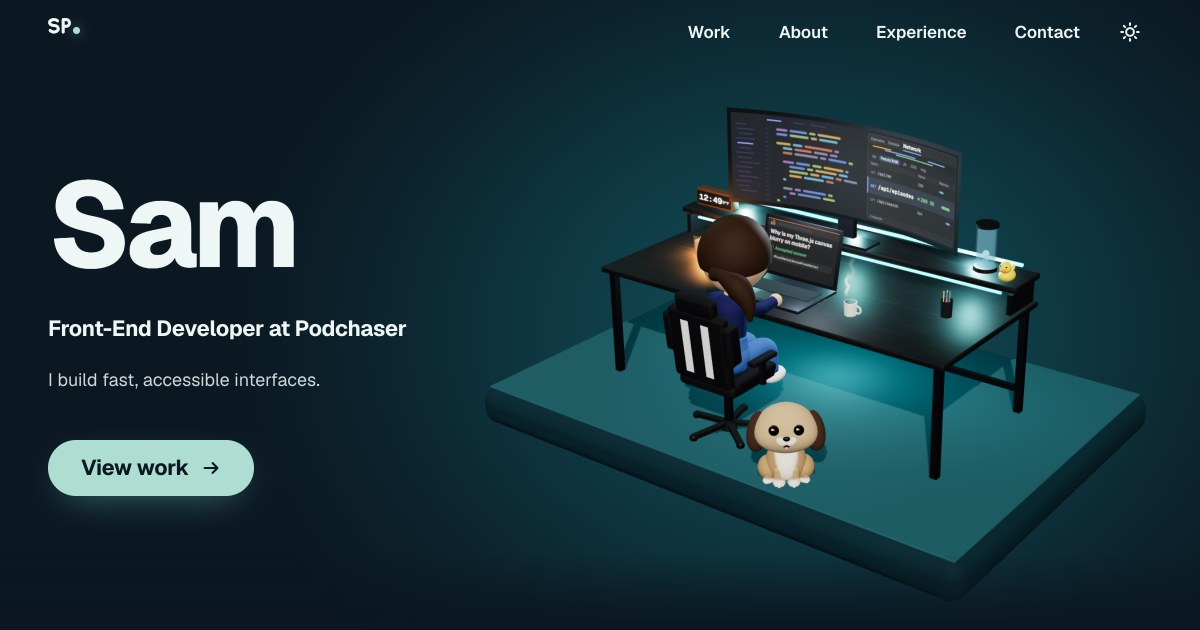
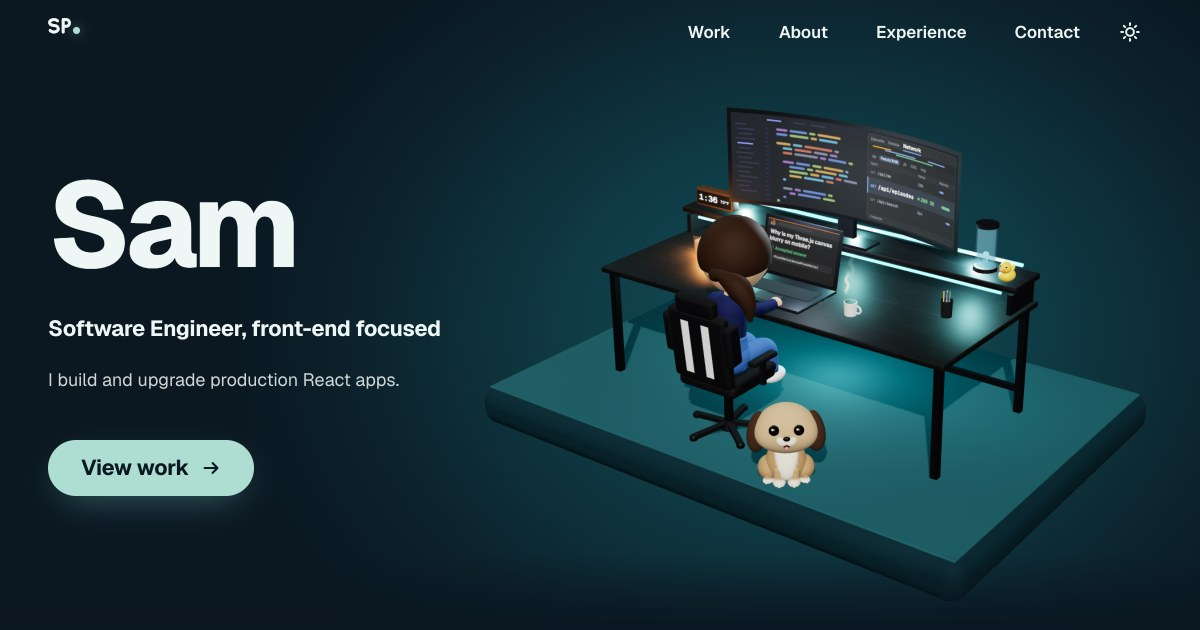
Copy from the résumé: one title, real roles and numbers, less repetition
Hero says Software Engineer, front-end focused. About leads with five
years of production React; the highlights are 5+ years, 15+ pages
owned and the React 17 to 19 upgrade. What I do covers product
interfaces, APIs and data, and upgrades and quality. Experience is the
three real roles with where and when. Descriptions and the link
preview follow.

Changed region(s): [[0.0925, 0.573, 0.3392, 0.6333], [0.0308, 0.5127, 0.37, 0.5429], [0.5858, 0.3016, 0.6167, 0.3317]]

diff --git a/src/content/content.js b/src/content/content.js
@@ -23,9 +23,9 @@ export const nav = [
 export const hero = {
   /* The big heading. The full name stays in the page title, the navbar logo and search results. */
   title: 'Sam',
-  role: `${site.role} at ${site.company}`,
+  role: 'Software Engineer, front-end focused',
   /* Shown on tablet and desktop only, to keep the phone hero compact. */
-  tagline: 'I build fast, accessible interfaces.',
+  tagline: 'I build and upgrade production React apps.',
   primaryAction: { label: 'View work', href: '#work' },
 }
 
@@ -79,11 +79,11 @@ export const about = {
   eyebrow: 'About me',
   /* The highlight is shown in the accent colour. */
   title: {
-    lead: 'Software engineer who turns complex problems into',
-    highlight: 'reliable, user-focused products.',
+    lead: 'Five years of production React,',
+    highlight: 'from new features to major upgrades.',
   },
   intro:
-    'I’m a software engineer with 5+ years of experience building and shipping production features at scale. I enjoy solving real user problems, improving existing systems, and turning complex requirements into clean, maintainable solutions.',
+    'I’m a software engineer in New York. Today I work on a large React and Redux product: I build data-heavy pages like search, charts and tables, keep the codebase current, and track bugs to their root cause, whether that’s in the UI, the API data or the build.',
   /* `icon` names one in components/ui/icons.jsx. */
   toolsLabel: 'Tools I use most',
   tools: [
@@ -97,21 +97,21 @@ export const about = {
   /* A number counts up when first seen; a word fades in. No invented figures. */
   stats: [
     { id: 'years', value: 5, suffix: '+', label: 'Years of experience' },
-    { id: 'production', value: 'Production', label: 'Features shipped' },
-    { id: 'ownership', value: 'End-to-end', label: 'Feature ownership' },
+    { id: 'pages', value: 15, suffix: '+', label: 'Pages and workflows owned' },
+    { id: 'upgrade', value: '17 → 19', label: 'React upgrade I led' },
   ],
   notes: [
     {
       id: 'bring',
       icon: 'target',
       title: 'What I bring',
-      text: 'End-to-end delivery, a user-focused mindset, and a bias for practical solutions with real impact.',
+      text: 'Patient, methodical debugging. I follow a problem until I find what actually causes it, then add the test that keeps it fixed.',
     },
     {
       id: 'growing',
       icon: 'chart',
       title: 'What I’m growing into',
-      text: 'Deeper system design, architecture and product thinking, with broader ownership of what I build.',
+      text: 'Deeper system design and architecture, and owning more of each feature, from the API to the screen.',
     },
     {
       id: 'how',
@@ -124,29 +124,29 @@ export const about = {
 
 export const skills = {
   eyebrow: 'What I do',
-  title: 'Front-end first, comfortable across the stack.',
-  intro: 'I build user-focused products, connect front-ends to the right data, and use AI tooling to ship faster and smarter.',
+  title: 'Data-heavy interfaces, built to last.',
+  intro: 'Most of my work is the front end of data-rich products, with enough reach into the API and the backend to see a feature all the way through.',
   groups: [
     {
       id: 'front-end',
       icon: 'layers',
-      title: 'Front-end',
-      description: 'Fast, accessible interfaces that scale and feel great to use.',
-      tags: ['React', 'Redux-Saga', 'Complex UI', 'Accessibility', 'Performance'],
+      title: 'Product interfaces',
+      description: 'Charts, search, discovery, tables, filters and pagination, responsive on every screen and built from reusable components.',
+      tags: ['React', 'Redux', 'React Router', 'Responsive design', 'Accessibility'],
     },
     {
       id: 'back-end',
       icon: 'database',
-      title: 'APIs and back-end',
-      description: 'The services behind the UI: designing endpoints, integrating data, and keeping it reliable.',
-      tags: ['REST APIs', 'Laravel', 'Integrations', 'Data access', 'Caching'],
+      title: 'APIs and data',
+      description: 'Wiring the UI to REST and GraphQL APIs, with loading, empty and error states handled, and backend changes when a feature needs them.',
+      tags: ['REST APIs', 'GraphQL', 'Node.js', 'Laravel', 'Async state'],
     },
     {
       id: 'ai-tooling',
       icon: 'gear',
-      title: 'AI and tooling',
-      description: 'Turning AI experiments into useful, reliable features and better workflows.',
-      tags: ['AI-assisted development', 'Prototyping', 'Developer workflows', 'AI features'],
+      title: 'Upgrades and quality',
+      description: 'Keeping a large codebase healthy: major version upgrades, root-cause fixes and the regression tests that stop bugs coming back.',
+      tags: ['React 17 → 19', 'React Router v5 → v6', 'Jest', 'Testing Library', 'Performance'],
     },
   ],
 }
@@ -163,31 +163,33 @@ export const resume = {
 export const experience = {
   eyebrow: 'Experience',
   title: 'How my scope has grown',
-  intro:
-    'I started out building React interfaces. Now I also collaborate across the stack and ship backend changes of my own.',
-  examplesLabel: 'Examples:',
-  /* In order: each stage builds on the one before it. `icon` names one in components/ui/icons.jsx. */
+  intro: 'Three roles, each with more ownership than the last: from a small intern team, to client apps, to a large production product.',
+  examplesLabel: 'Highlights:',
+  /* In order, oldest first: each role builds on the one before it. `icon` names one in components/ui/icons.jsx. */
   stages: [
     {
-      id: 'react',
-      icon: 'atom',
-      title: 'React interfaces',
-      summary: 'Build and maintain user-facing experiences in React.',
-      examples: 'search and filter controls, content discovery UI, and reusable components.',
-    },
-    {
-      id: 'cross-stack',
-      icon: 'layers',
-      title: 'Cross-stack collaboration',
-      summary: 'Work across the frontend and backend to connect features end to end.',
-      examples: 'integrate APIs with the UI, align changes across the stack, and troubleshoot feature issues.',
-    },
-    {
-      id: 'backend',
+      id: 'mren',
       icon: 'code',
-      title: 'Backend contributions',
-      summary: 'Make backend changes to support product features and improvements.',
-      examples: 'contribute Laravel changes (e.g., endpoints and data updates) to support frontend experiences.',
+      title: 'Software Engineer Intern',
+      meta: 'Mren · 2020 – 2021',
+      summary: 'Built and tested web features with React, TypeScript and Node.js.',
+      examples: 'coordinated four intern developers through planning and code reviews, and refactored code for quality and performance.',
+    },
+    {
+      id: 'zvn',
+      icon: 'layers',
+      title: 'Software Engineer',
+      meta: 'ZVN DEV · 2021 – 2023',
+      summary: 'Built client-facing web apps and storefronts for a range of clients.',
+      examples: 'React, Next.js and GraphQL apps, Shopify storefronts with Liquid templates, and cross-browser fixes in Chrome, Safari and Firefox.',
+    },
+    {
+      id: 'podchaser',
+      icon: 'atom',
+      title: site.role,
+      meta: `${site.company} · Dec 2022 – present`,
+      summary: 'Own pages and workflows in a large React and Redux app, from requirements to release.',
+      examples: 'charts, search, discovery and filtering on REST APIs, root-cause fixes backed by regression tests, and Laravel changes behind the features I build.',
     },
   ],
   currentRole: { label: 'Current role:', value: `${site.company} · ${site.role}` },

diff --git a/index.html b/index.html
@@ -6,7 +6,7 @@
     <title>Samantha Ponce · Software Engineer</title>
     <meta
       name="description"
-      content="Samantha Ponce is a software engineer who builds reliable, user-focused web products, from React interfaces to the APIs behind them."
+      content="Samantha Ponce is a software engineer in New York with five years of production React: data-heavy interfaces, major upgrades and the APIs behind them."
     />
     <meta name="theme-color" content="#0b1721" />
 
@@ -30,14 +30,14 @@
     <meta property="og:title" content="Samantha Ponce · Software Engineer" />
     <meta
       property="og:description"
-      content="Software engineer building reliable, user-focused web products, from React interfaces to the APIs behind them. Come say hi at my tiny 3D desk."
+      content="Software engineer with five years of production React: data-heavy interfaces, major upgrades and the APIs behind them. Come say hi at my tiny 3D desk."
     />
     <meta property="og:locale" content="en_US" />
     <meta name="twitter:card" content="summary_large_image" />
     <meta name="twitter:title" content="Samantha Ponce · Software Engineer" />
     <meta
       name="twitter:description"
-      content="Software engineer building reliable, user-focused web products, from React interfaces to the APIs behind them. Come say hi at my tiny 3D desk."
+      content="Software engineer with five years of production React: data-heavy interfaces, major upgrades and the APIs behind them. Come say hi at my tiny 3D desk."
     />
 
     <!--

diff --git a/src/sections/Experience/Experience.module.css b/src/sections/Experience/Experience.module.css
@@ -72,6 +72,14 @@
   font-weight: var(--weight-bold);
 }
 
+/* Where and when, right under the role. */
+.meta {
+  margin-top: calc(-1 * var(--space-2));
+  font-size: var(--text-sm);
+  font-weight: var(--weight-semibold);
+  color: var(--color-accent);
+}
+
 .summary {
   max-width: 34rem;
   color: var(--color-text);
@@ -98,7 +106,7 @@
     --line-room: var(--space-6); /* between the line and the columns */
 
     grid-template-columns: repeat(3, minmax(0, 1fr));
-    grid-template-rows: auto auto auto; /* title, summary, examples: shared, so they line up across the columns */
+    grid-template-rows: auto auto auto auto; /* role, where and when, summary, highlights: shared, so they line up across the columns */
     gap: 0 var(--column-gap);
     padding-left: 0;
     padding-top: calc(var(--marker) + var(--line-room));
@@ -118,7 +126,7 @@
 
   .stage {
     display: grid;
-    grid-row: 1 / span 3;
+    grid-row: 1 / span 4;
     grid-template-rows: subgrid;
     row-gap: var(--space-3);
   }

diff --git a/src/sections/Experience/Experience.jsx b/src/sections/Experience/Experience.jsx
@@ -15,6 +15,7 @@ function Stage({ stage, index }) {
             {stage.title}
           </Heading>
         </div>
+        <p className={styles.meta}>{stage.meta}</p>
         <p className={styles.summary}>{stage.summary}</p>
         <p className={styles.examples}>
           <span className={styles.examplesLabel}>{experience.examplesLabel}</span> {stage.examples}
